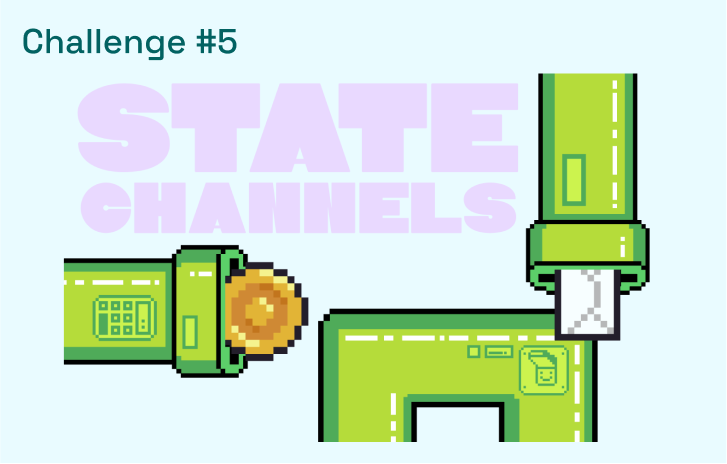
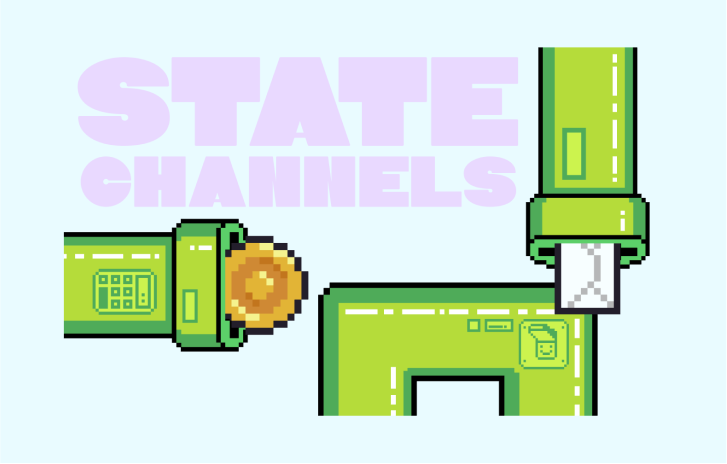
Delete challenge # from image assets

Changed region(s): [[0.0303, 0.0603, 0.9078, 0.9655], [0.5447, 0.2112, 0.6052, 0.2716], [0.8171, 0.2414, 0.8473, 0.2716]]

diff --git a/README.md b/README.md
@@ -1,6 +1,6 @@
 # 🚩 Challenge 5: 📺 A State Channel Application
 
-![readme-5](https://github.com/scaffold-eth/se-2-challenges/assets/55535804/a6ea79fe-3fa1-4a3b-96d0-e5c0d2286356)
+![readme-5](https://github.com/user-attachments/assets/218ebf69-7b41-4b4e-afb1-9209f4340623)
 
 🐌 The Ethereum blockchain has great decentralization & security properties. These properties come at a price: transaction throughput is low, and transactions can be expensive (search term: blockchain trilemma). This makes many traditional web applications infeasible on a blockchain... or does it?
 
